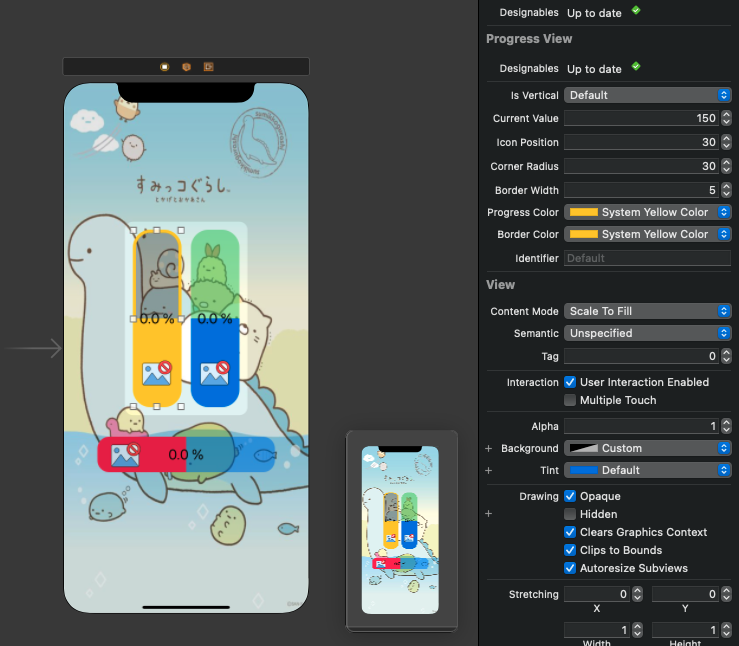
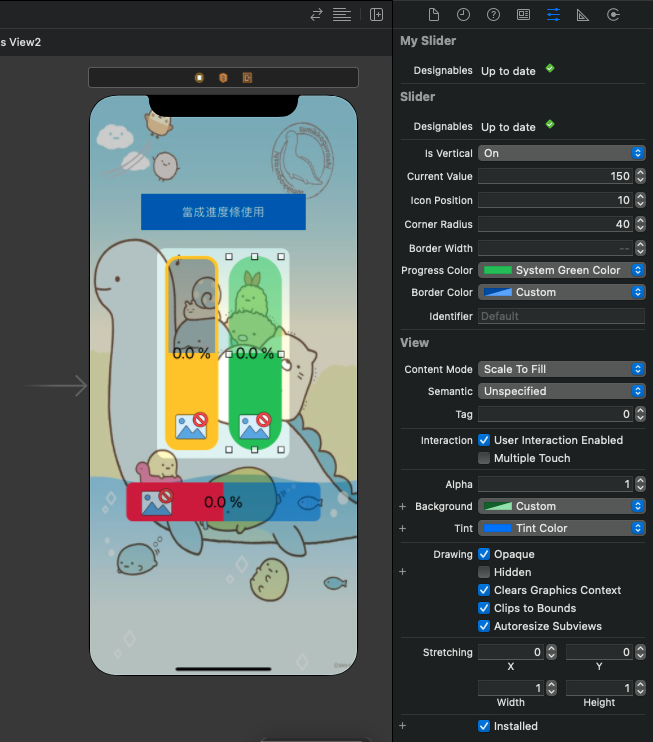
增加進度條顯示

diff --git a/Sources/WWSlider/WWSlider.swift b/Sources/WWSlider/WWSlider.swift
@@ -39,8 +39,9 @@ public protocol SliderDeleagte: AnyObject {
     @IBInspectable public var identifier: String = "ProgressView"
 
     @IBOutlet weak var displayLabel: UILabel!
-    @IBOutlet weak var iconPositionConstraint: NSLayoutConstraint!
-    
+    @IBOutlet weak var iconVerticalPositionConstraint: NSLayoutConstraint!
+    @IBOutlet weak var iconHorizontalPositionConstraint: NSLayoutConstraint!
+
     @IBOutlet weak var verticalView: UIView!
     @IBOutlet weak var verticalProgressView: UIView!
     @IBOutlet weak var verticalScaleStackView: UIStackView!
@@ -154,15 +155,16 @@ extension WWSlider {
         layer.borderColor = borderColor.cgColor
         
         touchPoint.constant = safeTouchPointConstant(currentValue, isVertical: isVertical)
-        iconPositionConstraint.constant = iconPosition
         
         verticalView.isHidden = !isVertical
         horizontalView.isHidden = isVertical
         
         if (isVertical) {
+            iconVerticalPositionConstraint.constant = iconPosition
             verticalProgressView.backgroundColor = progressColor
             verticalConstraint.constant = touchPoint.constant
         } else {
+            iconHorizontalPositionConstraint.constant = iconPosition
             horizontalProgressView.backgroundColor = progressColor
             horizontalConstraint.constant = touchPoint.constant
         }

diff --git a/Example/Example/ViewController/ViewController.swift b/Example/Example/ViewController/ViewController.swift
@@ -37,7 +37,7 @@ final class ViewController: UIViewController {
         myProgressView3.myDeleagte = self
         
         myProgressView1.configure(id: "\(Identifier.continuous)", initValue: "50%", font: .systemFont(ofSize: 16), icon: icon.continuous, type: .continuous)
-        myProgressView2.configure(id: "\(Identifier.segmented)", initValue: "5/\(count)", font: .systemFont(ofSize: 20), icon: icon.segmented, type: .segmented(count))
+        myProgressView2.configure(id: "\(Identifier.segmented)", initValue: "5/\(count)", font: .systemFont(ofSize: 20), icon: icon.segmented, type: .segmented(count, .blue, 1.0))
         myProgressView3.configure(id: "\(Identifier.segmented2)", initValue: "0", font: .systemFont(ofSize: 24), icon: icon.segmented2, type: .segmented(count))
     }
     
